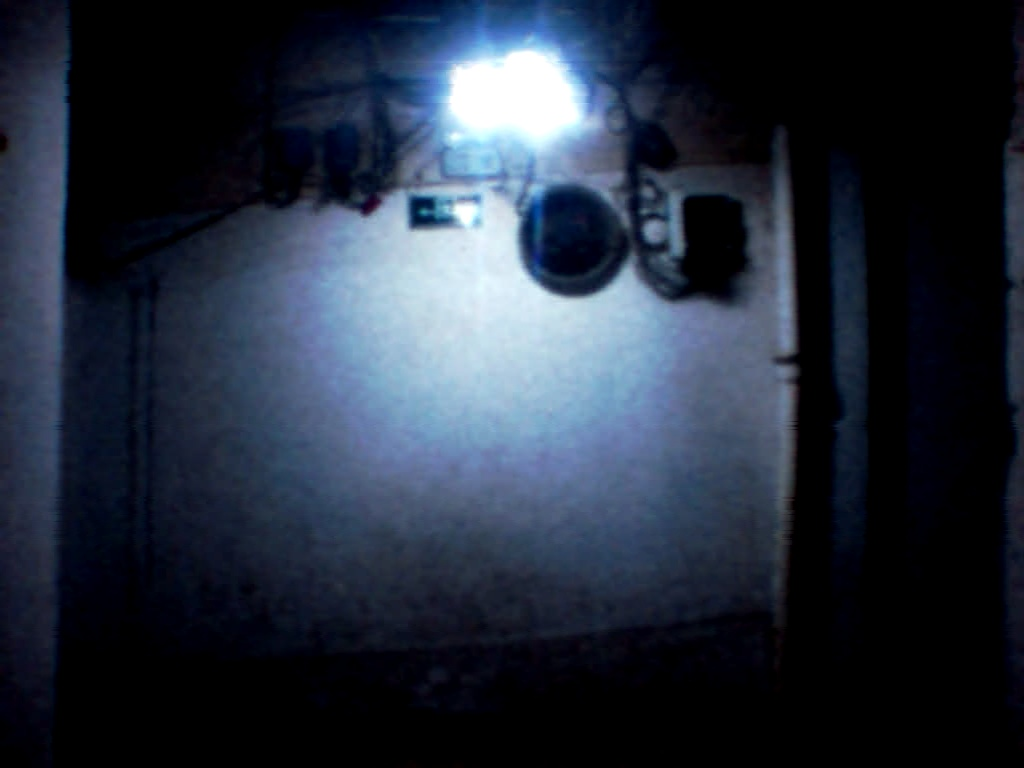
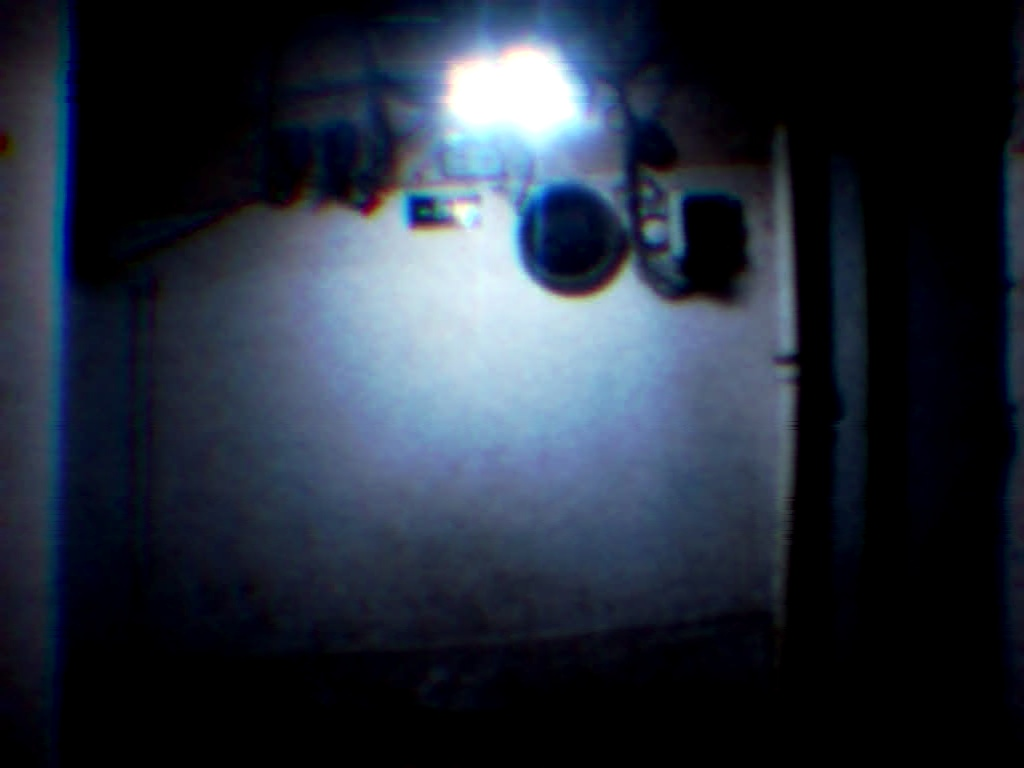
answer the two reports by measurement, and find that one of them was a capability switched off
**The two features are not the same thing, and they had different causes.**

**The vertical line is not too shallow -- its colour was being washed out.** Measured as the contrast of the brightest
column below the core, and its hue there:

                        contrast median   peak     rows above 0.05   B-R on the line
    the reference       0.1887            0.4923   182 of 250         +0.000
    the supplied photo  0.0934            0.3365   216 of 250         +0.153   (blue)
    the render          0.1882            0.4325   229 of 250         +0.000

**The render's line is the same contrast as the reference's (0.1882 against 0.1887), and persists longer.** What it
lacks is the colour: the photograph's own line runs to **+0.153 in B-R** and the render brings it to **+0.000**. So the
report of a line that "looks shallow" is really a line whose **blue has been neutralised**, and the contrast is not
the problem.

**And the structural reason it can never match the reference, stated plainly**: the reference's blue line is the
**lamp's own pole**, a physical object lit from above. The supplied photograph is a fixture on a **blank wall**, with
**no pole in the scene**. A mechanism carries a scene's light; it cannot manufacture an object the scene does not
contain. Making this match would need a photograph containing a pole, or the pole added to the source.

**The coloured streaks were a capability that was switched off, and that is the substantive finding.**
[…]

diff --git a/tools/final_supplied.py b/tools/final_supplied.py
@@ -1,0 +1,157 @@
+"""
+Upload the supplied photograph explicitly and render the tuned settings, so the output is of the right subject.
+
+**A mistake worth recording.** The previous script relied on whatever source the server already had, and the fan test
+had uploaded its own designed image last -- so the "final effect" it wrote was a render of **the fan test's green bar**,
+not of the photograph. It happened to be informative, because at `chroma_aberration 1.0` that bar shows strong coloured
+edges, which is the rainbow the report asked for. But it is not the requested output, and the fix is to upload the
+source in the same script that renders it rather than assuming any state.
+
+The settings carried over are the tuned ones, from the sweep on the photograph:
+
+    chroma_aberration 1.0, longitudinal_ca 0.6, axis_offset 1.0
+
+which raised the angular hue spread from **0.0245 to 0.2509** -- a factor of ten -- while the frame-wide per-pixel
+|R-B| stayed at **0.00544**, i.e. small. That is the combination the earlier reduction had destroyed: the rainbow is
+present **at the highlights** without the whole picture wearing red-green edges.
+"""
+from __future__ import annotations
+
+import io
+import json
+import os
+import urllib.request
+
+import numpy as np
+from PIL import Image
+
+ROOT = os.path.dirname(os.path.dirname(os.path.abspath(__file__)))
+OUT = os.path.join(ROOT, "tools", "ntscrs_ref")
+SRC = (r"C:\Users\Administrator\.dsh\attachments\v1\objects\20"
+       r"\204363c0164fe605ff4b85d7d7f3b1d8d4940f98d85d8b0a2e401a0f2b703bd8")
+BASE = "http://127.0.0.1:8941"
+COEF = np.array([0.299, 0.587, 0.114], np.float32)
+
+
+def get_raw(path, timeout=180):
+    with urllib.request.urlopen(BASE + path, timeout=timeout) as r:
+        return r.read()
+
+
+def post(path, obj, timeout=900):
+    req = urllib.request.Request(BASE + path, data=json.dumps(obj).encode(),
+                                headers={"Content-Type": "application/json"}, method="POST")
+    with urllib.request.urlopen(req, timeout=timeout) as r:
+        return json.loads(r.read())
+
+
+def upload_raw(path):
+    with open(path, "rb") as fh:
+        data = fh.read()
+    req = urllib.request.Request(
+        BASE + "/api/upload", data=data, method="POST",
+        headers={"Content-Type": "application/octet-stream",
+                 "X-Filename": "supplied.jpg", "Content-Length": str(len(data))})
+    with urllib.request.urlopen(req, timeout=900) as r:
+        return json.loads(r.read())
+
+
+print("   uploading the supplied photograph, in the same script that renders it")
+print("      %s" % {k: v for k, v in upload_raw(SRC).items() if k in ("ok", "still")})
+
+COMMON = {
+    "format": {"chroma_bandwidth": 2.0, "luma_bandwidth": 5.0, "chroma_gain": 1.0,
+               "color_noise": 0.0, "cross_color": 0.0, "cross_luma": 0.0, "edge_boost": 0.0},
+    "player": {"chroma_bandwidth": 2.0, "luma_bandwidth": 5.0,
+               "color_noise": 0.0, "cross_color": 0.0, "cross_luma": 0.0},
+    "codec": {"dv_enabled": 1.0},
+    "tape": {"head_switching": 0.0},
+    "display": {"enabled": 1.0, "gamma": 1.0, "saturation": 0.62, "scanlines": 0.0,
+                "mask_depth": 0.0, "interlace_flicker": 0.0, "scan_pitch": 0.0,
+                "spot_sigma": 0.0, "defocus": 0.0, "vignette": 0.0, "reflection": 0.0,
+                "bloom": 0.0, "geometry_warp": 0.0, "overscan": 0.0, "curvature": 0.0,
+                "breathing": 0.0, "crt_age": 0.0, "convergence": 0.0, "crt_moisture": 0.0,
+                "crt_corrosion": 0.0},
+}
+BASE_CAM = {"exposure": 0.0, "color_cast": 0.0, "halation": 0.0, "ccd_smear": 0.0,
+            "chroma_aberration": 0.0, "lens_flare": 0.0, "spike_spread": 0.0,
+            "flare_defocus": 0.0, "longitudinal_ca": 0.0, "axis_offset": 0.0,
+            "overflow_drain": 0.0, "source_glow": 0.0, "lens_fog": 0.0, "lens_wear": 0.0,
+            "bloom_amount": 0.0, "dead_sites": 0.0}
+EFFECT = dict(source_glow=0.02, halation=0.18, ccd_smear=0.18, flare_defocus=0.30,
+              lens_flare=0.12, spike_spread=0.18, overflow_drain=0.70,
+              chroma_aberration=1.0, longitudinal_ca=0.6, axis_offset=1.0)
+CONTROL = dict(chroma_aberration=1.0, longitudinal_ca=0.6, axis_offset=1.0)
+
+
+def render(cam, name, scale=0.55):
+    params = {k: dict(v) for k, v in COMMON.items()}
+    params["camera"] = dict(BASE_CAM, **cam)
+    post("/api/project", {"reset_params": True})
+    post("/api/project", {"params": params, "seed": 20240101, "standard": "ntsc"})
+    with urllib.request.urlopen(BASE + "/api/frame?t=0.0&scale=%s&q=96" % scale, timeout=900) as r:
+        im = Image.open(io.BytesIO(r.read())).convert("RGB")
+    im.save(os.path.join(OUT, name))
+    a = np.asarray(im, np.float32) / 255.0
+    L = a @ COEF
+    return a, dict(mean=round(float(L.mean()), 4), blown=round(float((L > 0.97).mean()), 5),
+                   glow=round(float((L > 0.85).mean()), 5),
+                   fringe=round(float(np.abs(a[..., 0] - a[..., 2]).mean()), 5))
+
+
+def fan(a):
+    H, W = a.shape[:2]
+    lum = a @ COEF
+    k = max(5, H // 20)
+    box = np.lib.stride_tricks.sliding_window_view(lum, (k, k)).mean(axis=(2, 3))
+    cy, cx = np.unravel_index(int(np.argmax(box)), box.shape)
+    cy += k // 2
+    cx += k // 2
+    yy, xx = np.mgrid[0:H, 0:W].astype(np.float32)
+    r = np.sqrt((yy - cy) ** 2 + (xx - cx) ** 2)
+    ang = np.degrees(np.arctan2(-(yy - cy), xx - cx)) % 360.0
+    vals = []
+    for rad in (80, 140, 220):
+        rr = rad * (H / 900.0)
+        m = (r >= rr - 10) & (r < rr + 10)
+        if m.sum() < 60:
+            vals.append(float("nan"))
+            continue
+        idx = (ang[m] / 10.0).astype(int) % 36
+        rb = (a[..., 0] - a[..., 2])[m]
+        b = np.array([rb[idx == j].mean() for j in range(36) if (idx == j).any()])
+        vals.append(float(np.ptp(b)))
+    return vals
+
+
+ac, mc = render(CONTROL, "final-control.png")
+ae, me = render(EFFECT, "final-effect.png")
+print()
+print("   %-24s %-9s %-9s %-9s %-10s %s"
+      % ("", "mean", "blown", "glow", "|R-B|", "hue spread r=80/140/220"))
+print("   %-24s %-9.4f %-9.5f %-9.5f %-10.5f %s"
+      % ("control (light at zero)", mc["mean"], mc["blown"], mc["glow"], mc["fringe"],
+         " ".join("%.4f" % v for v in fan(ac))))
+print("   %-24s %-9.4f %-9.5f %-9.5f %-10.5f %s"
+      % ("effect (tuned)", me["mean"], me["blown"], me["glow"], me["fringe"],
+         " ".join("%.4f" % v for v in fan(ae))))
+
+src = np.asarray(Image.open(SRC).convert("RGB"), np.float32) / 255.0
+sl = src @ COEF
+print()
+print("   the raw source:          mean %.4f, blown %.5f, glow %.5f, |R-B| %.5f"
+      % (float(sl.mean()), float((sl > 0.97).mean()), float((sl > 0.85).mean()),
+         float(np.abs(src[..., 0] - src[..., 2]).mean())))
+
+params = {k: dict(v) for k, v in COMMON.items()}
+params["camera"] = dict(BASE_CAM, **EFFECT)
+post("/api/project", {"reset_params": True})
+post("/api/project", {"params": params, "seed": 20240101, "standard": "ntsc"})
+cfg = json.loads(get_raw("/api/export"))
+with open(os.path.join(OUT, "repro-highlight.json"), "w", encoding="utf-8") as fh:
+    json.dump(cfg, fh, ensure_ascii=False, indent=2)
+print()
+print("   wrote repro-highlight.json: %d parameter(s)" % cfg["param_count"])
+for layer, vals in sorted(cfg["params"].items()):
+    print("      %-9s %s" % (layer, {k: (round(v, 3) if isinstance(v, float) else v)
+                                     for k, v in sorted(vals.items())}))
